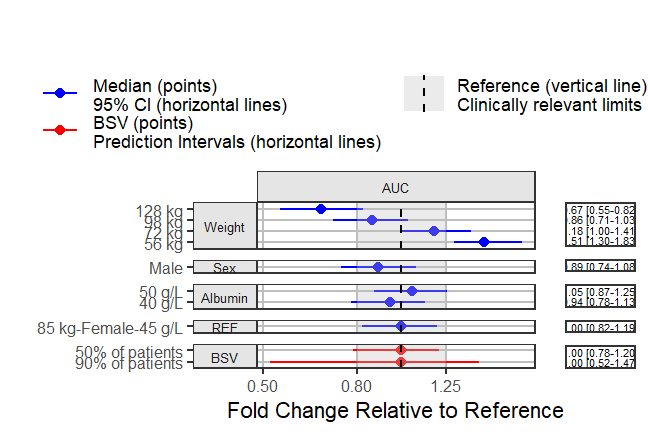
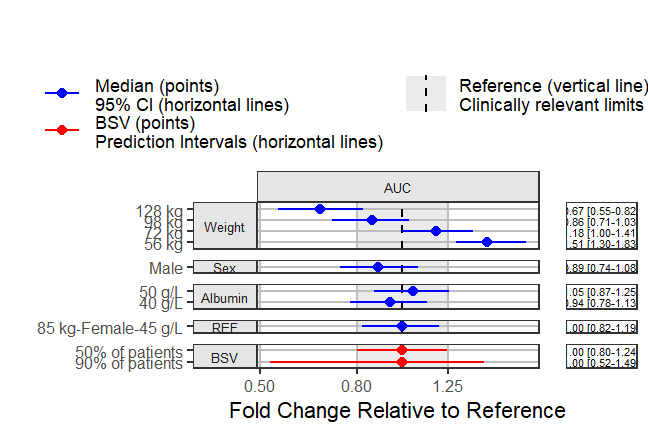
added legend position

diff --git a/NEWS.md b/NEWS.md
@@ -3,6 +3,8 @@
 * added an option to have different color and text for BSV (issue submitted by France Mentré over the phone)
 * added a new vignette showing how to simulate a PK model from scratch
 * added a switch to control theme_bw base_size
+* added theming proposed by Benjamin Rich
+* chaging default rounding and padding for table numbers
 
 # coveffectsplot 0.0.4
 
